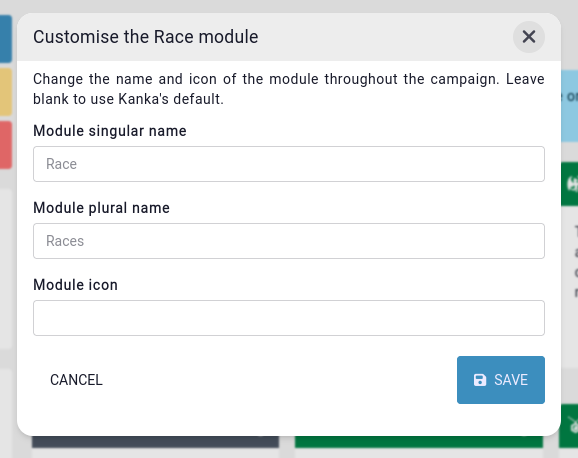
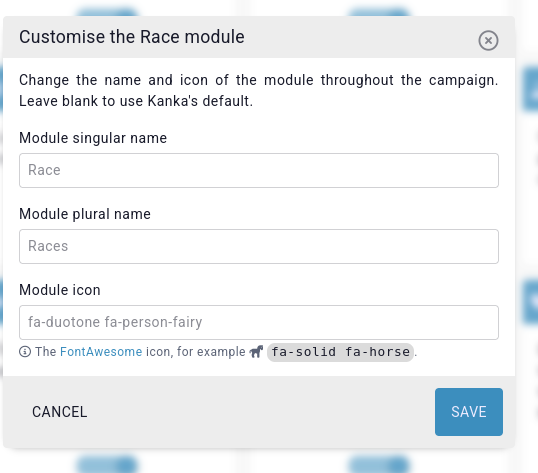
New docs 3.0

Changed region(s): [[0.0, 0.0, 1.0, 1.0], [0.0595, 0.7948, 0.1784, 0.8865]]

diff --git a/docs/source/features/campaigns/modules.md b/docs/source/features/campaigns/modules.md
@@ -1,26 +1,33 @@
 # Modules 
 
-By default, a campaign has over fifteen types of entities enabled. If your world has no use of calendars or quests, these can be disabled.
+We've built Kanka with about two dozen modules that interact with each other and help you organise your worlds. If our pre-determined modules don't quite fit your needs, premium campaigns can also create their own.
 
-From the campaign sidebar, click on `Settings`, and then go to the `Modules` subpage. This interface allows you to enable or disable types of entities that the campaign doesn't need.
+Accessing your world's module is done by clicking `Settings` in the sidebar, and then going to the `Modules` subpage (or searching for `Modules` in the lookup field at the top of the page). This interface splits into three distinct sections.
+
+## Custom modules
+
+The first section is reserved for your custom modules. 
+
+![Custom modules](img/modules-custom.png)
+
+Custom modules have a singular name to describe an entity, a plural name to describe multiple entities, and an icon used for the sidebar and quick creator interface. Additionally, when creating a new module, you can directly set roles that have access to entities creating in the new module.
+
+![New module form](img/modules-new.png)
+
+Once created, the new module is visible in the [Bookmarks](/advanced/bookmarks) section of the sidebar and as an option in the quick creator.
+
+
+## Default modules
+
+Each world comes with the afromentioned pre-determined default modules, and they are automatically all enabled, except for the deprecated [conversations](/entities/conversations) and [dice rolls](/entities/dice-rolls) modules.
 
 ```{admonition} Info
 Disabling an entity type doesn't delete the related data from the campaign. Instead, it is simply **hidden**. Only members of the campaign's admin role can enable or disable modules.
 ```
 
-## Modules enabled by default
+### Customising module names and icons
 
-Campaigns have automatically all modules enabled, except for the deprecated [conversations](/entities/conversations) and [dice rolls](/entities/dice-rolls) modules.
-
-### Example
-
-In the following example, all modules except for [characters](/entities/characters) and [locations](/entities/locations) have been disabled.
-
-![Example campaign modules](img/modules-example.png);
-
-## Customising module names and icons
-
-If you'd rather the [Race](/entities/races) module be named `Folk` throughout your Kanka campaign, you can do so. In the campaign's module interface, click on the cog wheel in the module's boy you want to change.
+If you'd rather the [Race](/entities/races) module be named `Folk` throughout your Kanka campaign, you can do so. Click on the cog wheel in the module's box you want to change.
 
 ![Cog wheel icon](img/modules-cog.png)
 
@@ -31,3 +38,7 @@ This brings up an interface to update the module's singular and plural name, as 
 ### Module icon
 
 The module icon field can be filled out with a [FontAwesome or RPGAwesome](/features/campaigns/sidebar#what-fonts-are-available) class.
+
+## Features
+
+At the bottom of the page you'll find features that can be turned off. For example, if you don't need inventories or assets in your campaign. Most features are such an integral part of Kanka that they cannot be turned off. However, you can hide them with some [custom CSS magic](/features/campaigns/theming).

diff --git a/docs/source/features/mentions.md b/docs/source/features/mentions.md
@@ -79,7 +79,7 @@ Referencing attributes of this entity is also possible. Simply type `{` and thre
 ### Attributes / Character sheets in the tooltip
 
 ```{admonition} New features
-New with Kanka 2.1, and only for [premium campaigns](https://kanka.io/premium)
+Only available on [premium campaigns](https://kanka.io/premium)
 ```
 
 If you wish for a tooltip to display the attributes of the target entity instead of a preview of its entry, or render its character sheet, add the `tooltip:attributes` property to the advanced mention.
@@ -103,6 +103,10 @@ Parameters can also be passed along to the entity link. For example, specify whi
 
 These mentions can by styled with CSS and [campaign styling](/features/campaigns/theming).
 
+#### Attributes / Character sheets
+
+If you want to go even weirder, you can use `[entity:123|field:attributes]` to render an iframe that will display the attributes or character sheet of the target entity.
+
 ## Private mentions
 
 A mention to an entity the user can't see will be rendered as a simple "_unknown_" text, and not as a link to the target. If the mention specifies a custom name, like `[entity:123|The Tavern Of Dreams]`, it will show _The Tavern Of Dreams_ instead of _Unknown_.
@@ -115,6 +119,20 @@ Referencing attributes of this entity is also possible. Simply type `{` and thre
 
 Type `#` in the text editor to get a list of months from your [calendars](/entities/calendars). This combines the months of all the campaign's calendars.
 
+## Posts
+
+Posts can be mentioned and transcluded the same way entities can. Since posts tend to have the same name, you can use `::` in the text editor to search for entities. Doing so will list entities with that name and all of their posts.
+
+![Post mentions shorthand](img/post-mentions.png)
+
+### Post transclusion
+
+To transclude a post, first you need the post's advanced mention. You can get it by going to it on the entity, and clicking on `...` and `Copy advanced mention`. This will copy the post's advanced mention to your clipboard.
+
+![Copy post advanced mention](img/post-copy-advanced.png)
+
+Then, paste it in the text editor and append `|transclude`. For example, it would result in `[post:1822|transclude]`.
+
 ## Search and replace
 
-There is no way to do a general *search and replace* of terms in your campaign to replace text into a mention. This was attempted in the past, but ended up in too many false positives, and more worryingly entities losing large chunks of their entries.
+@mentions automatically use the entity's current name, so updating the entity name will update every mention (except if an advanced mention is used with a custom link name).
